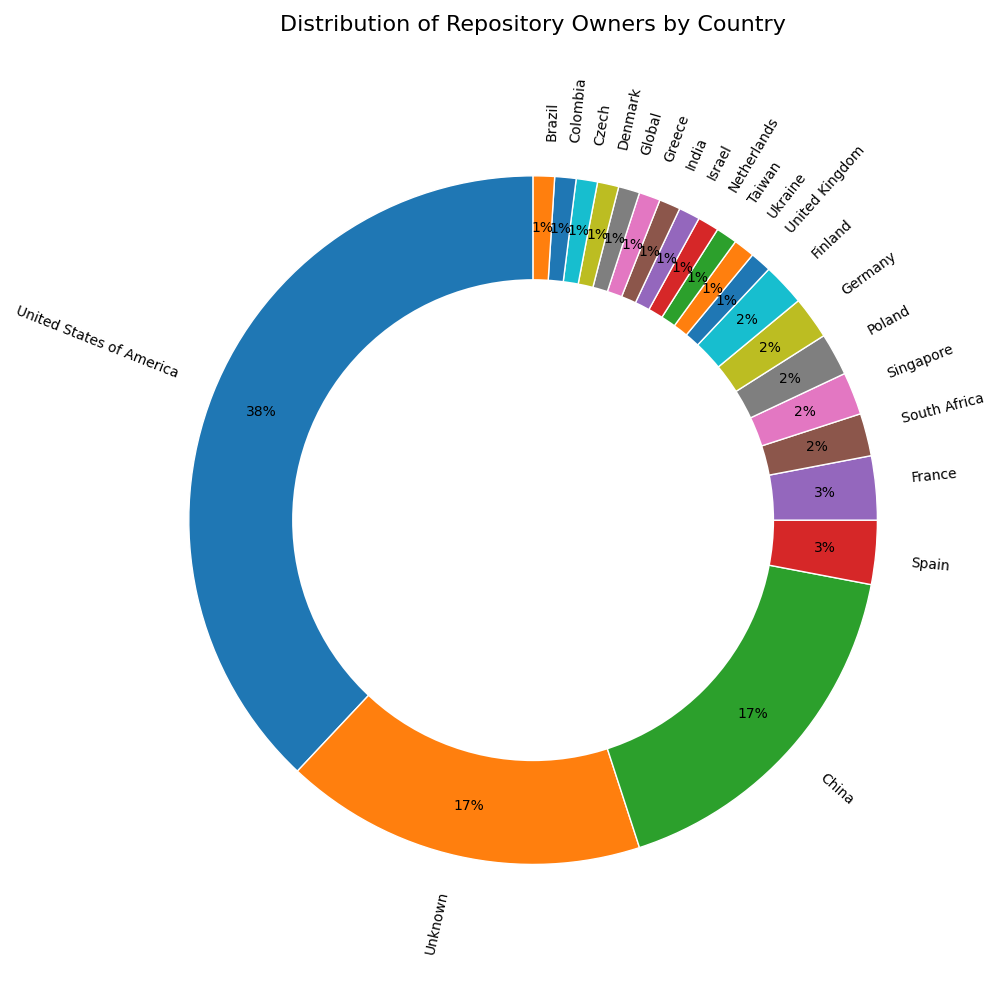
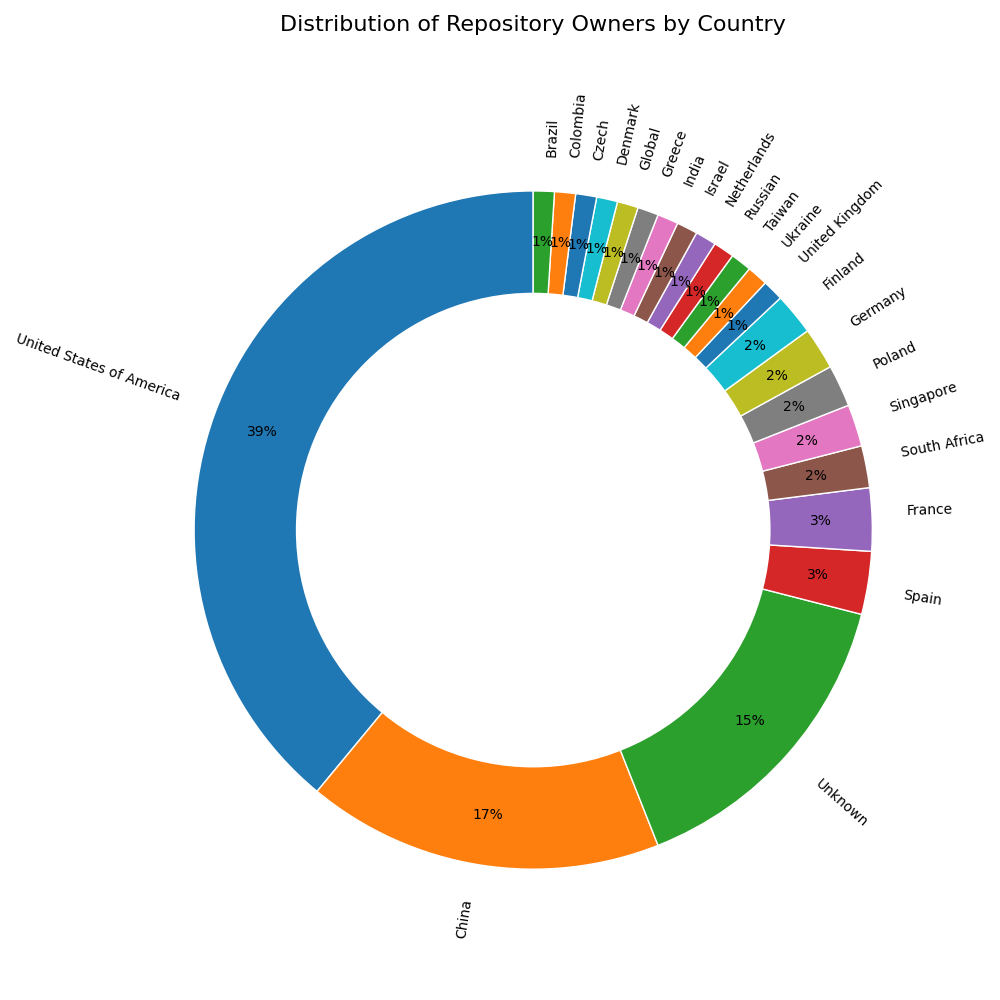
added_pie

diff --git a/README.md b/README.md
@@ -45,8 +45,8 @@
 | 38 | [javascript](https://github.com/airbnb/javascript) | 148023 | 26773 | JavaScript | 100 | JavaScript Style Guide | 2025-11-06T00:54:14Z | Org | United States of America |
 | 39 | [langflow](https://github.com/langflow-ai/langflow) | 143387 | 8284 | Python | 352 | Langflow is a powerful tool for building and deploying AI-powered agents and workflows. | 2026-01-13T03:00:25Z | Org | Unknown |
 | 40 | [awesome-chatgpt-prompts](https://github.com/f/awesome-chatgpt-prompts) | 142195 | 18866 | TypeScript | 2 | Share, discover, and collect prompts from the community. Free and open source — self-host for your organization with complete privacy. | 2026-01-13T03:35:35Z | User | Unknown |
-| 41 | [yt-dlp](https://github.com/yt-dlp/yt-dlp) | 141596 | 11445 | Python | 1754 | A feature-rich command-line audio/video downloader | 2026-01-06T05:44:30Z | Org | Unknown |
-| 42 | [FreeDomain](https://github.com/DigitalPlatDev/FreeDomain) | 139904 | 2477 | HTML | 0 | DigitalPlat FreeDomain: Free Domain For Everyone | 2026-01-09T15:44:07Z | Org | Unknown |
+| 41 | [yt-dlp](https://github.com/yt-dlp/yt-dlp) | 141596 | 11445 | Python | 1754 | A feature-rich command-line audio/video downloader | 2026-01-06T05:44:30Z | Org | Russian |
+| 42 | [FreeDomain](https://github.com/DigitalPlatDev/FreeDomain) | 139904 | 2477 | HTML | 0 | DigitalPlat FreeDomain: Free Domain For Everyone | 2026-01-09T15:44:07Z | Org | United States of America |
 | 43 | [HelloGitHub](https://github.com/521xueweihan/HelloGitHub) | 139893 | 11042 | Python | 240 | :octocat: 分享 GitHub 上有趣、入门级的开源项目。Share interesting, entry-level open source projects on GitHub. | 2025-12-26T00:45:37Z | User | China |
 | 44 | [youtube-dl](https://github.com/ytdl-org/youtube-dl) | 139430 | 10586 | Python | 3619 | Command-line program to download videos from YouTube.com and other video sites | 2025-11-26T03:02:36Z | Org | Spain |
 | 45 | [next.js](https://github.com/vercel/next.js) | 137112 | 30261 | JavaScript | 2035 | The React Framework | 2026-01-13T01:56:56Z | Org | United States of America |
